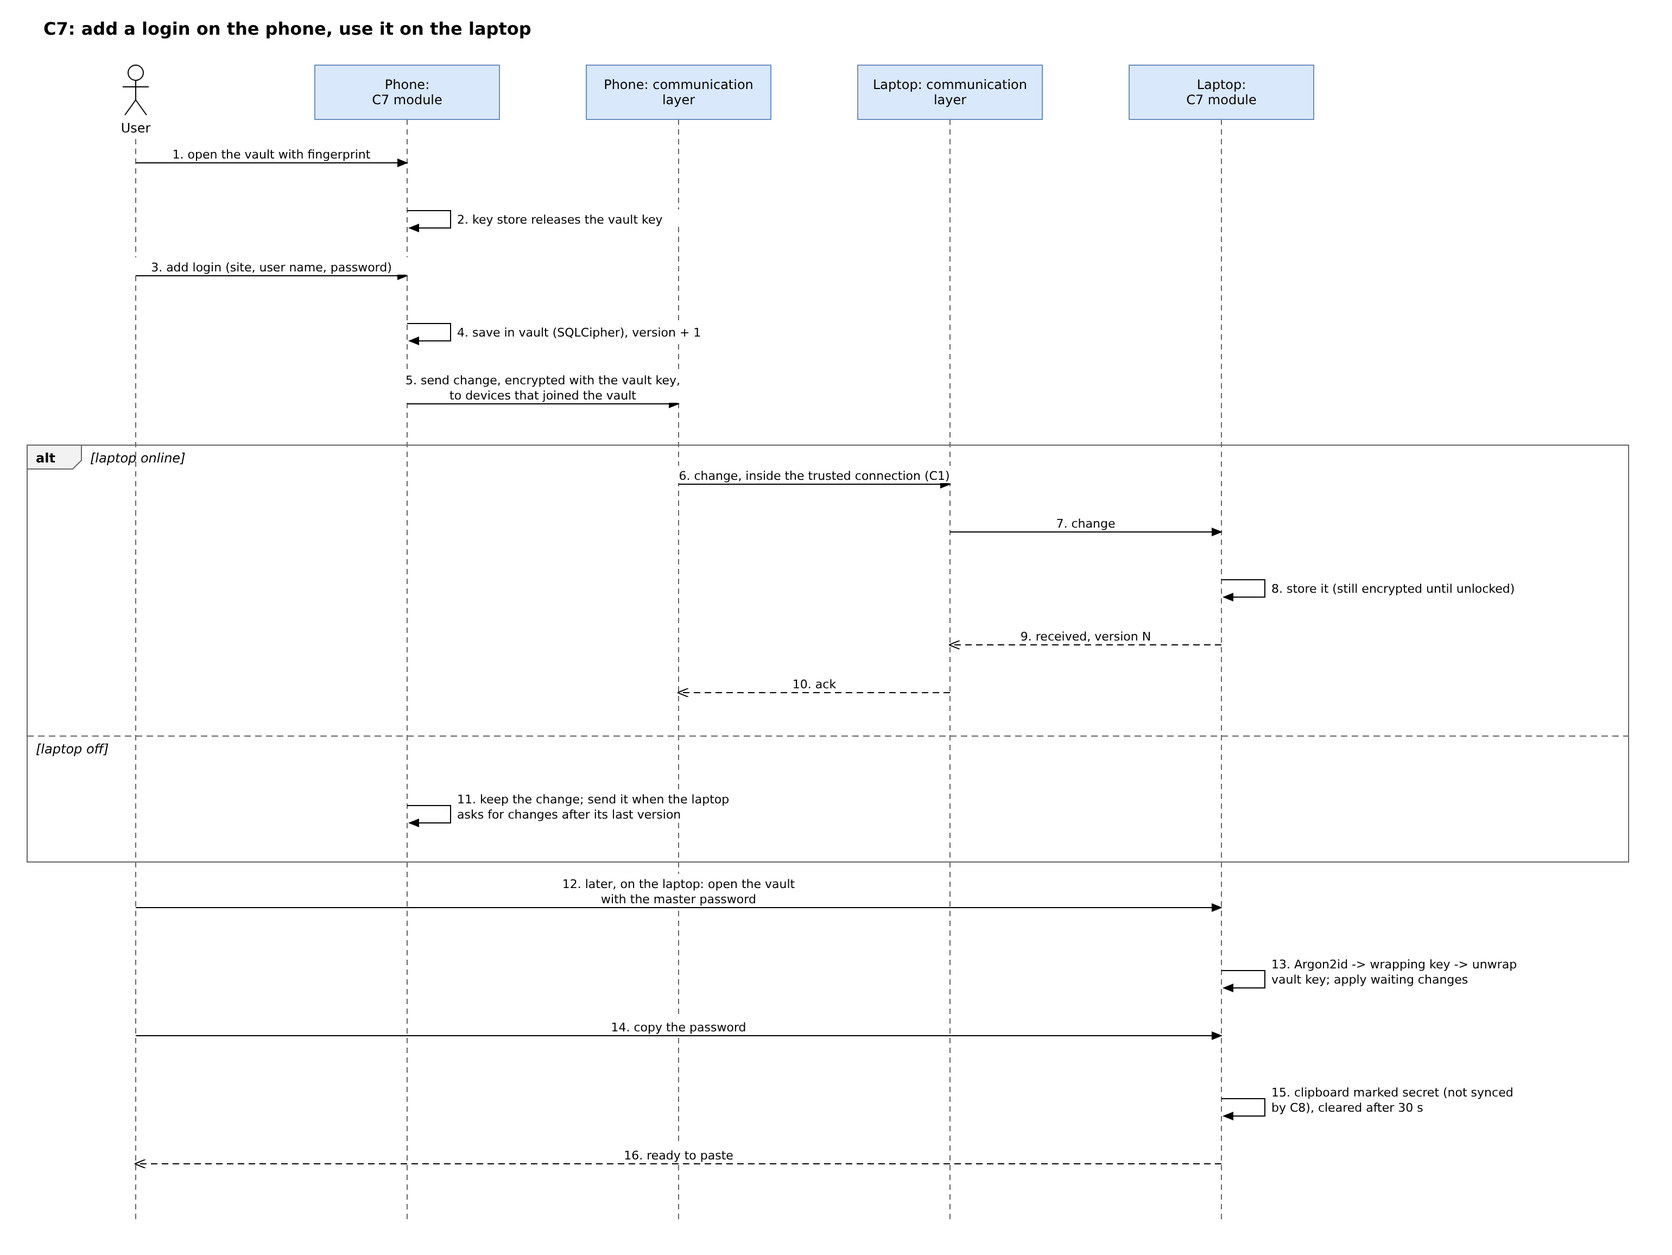
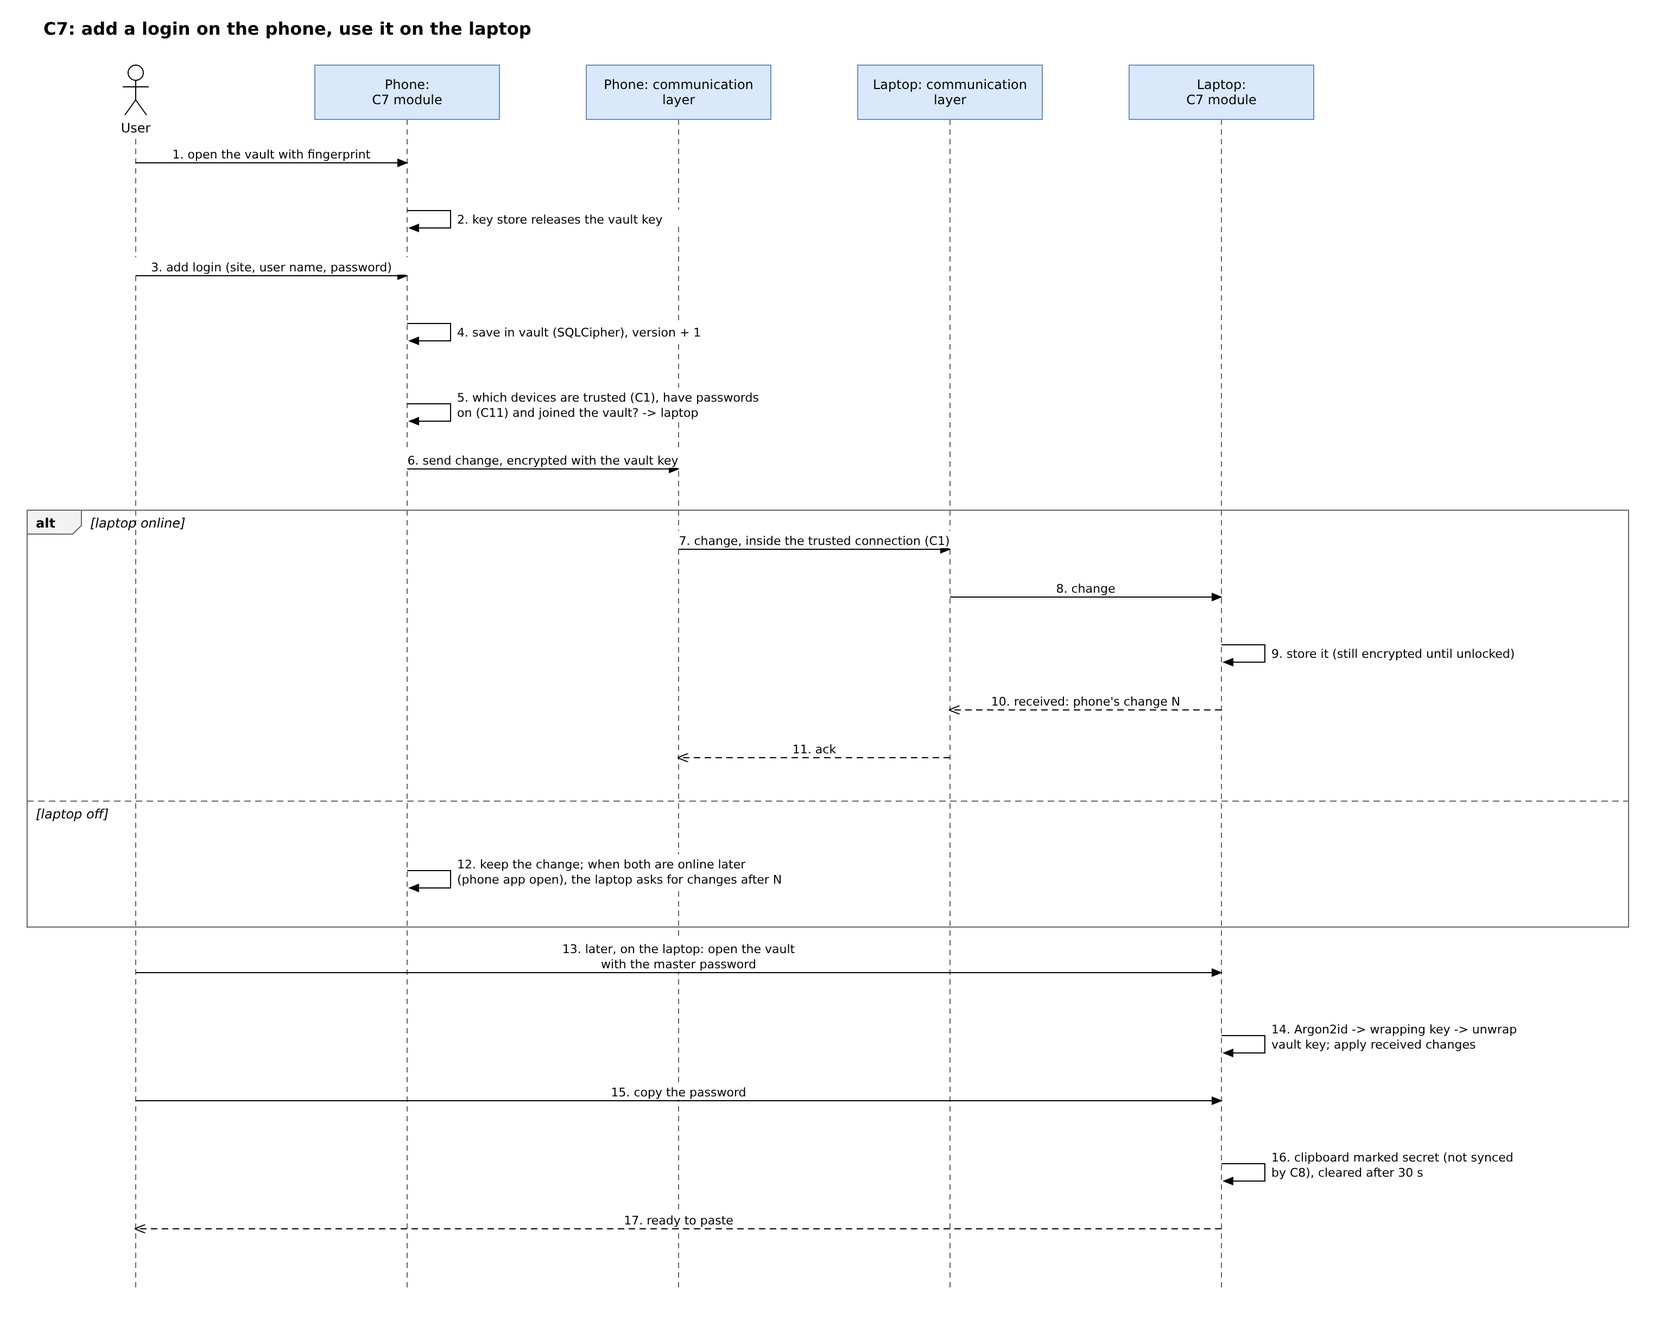
C7: fixes after review (stored keys, sync versions, clipboard per system, diagram)
Claude-Session: https://claude.ai/code/session_01BeHf3d1kUqbSvqCHyE6dbJ

diff --git a/report/C7-password-management.md b/report/C7-password-management.md
@@ -1,29 +1,29 @@
 # C7: Password management (first version)
 
-Owner: Ali. Status: first version, 8 Nov 2026. Phase 1 is design only: no code. The professor agreed that C7 stays in the report as a design. Names follow `B1-architecture-v2.md`; technology from `B6-technology-final.md`; trust from C1 v2 (draft). **[PROPOSAL]** = a design choice or number to settle in Phase 2. **[NOT CHECKED]** = not confirmed in a primary source or by a test.
+Owner: Ali. Status: first version, 8 Nov 2026. Phase 1 is design only: no code. The professor agreed that C7 stays in the report as a design. Names follow `B1-architecture-v2.md`; technology from `B6-technology-final.md`; trust from C1 v2 (draft); security rules from `C11-security-privacy.md`. **[PROPOSAL]** = a design choice or number to settle in Phase 2. **[NOT CHECKED]** = not confirmed in a primary source or by a test.
 
 ## 1. How it works in one paragraph
-Each device that the user turns the feature on for keeps the same password vault, encrypted, inside the device app. The vault is opened with one master password (or a fingerprint or face on devices that have it). Changes travel only between trusted devices on the local network, already encrypted with the vault key, so no server and no internet are involved. The user copies a password, or, on Android, iPhone/iPad and Mac, lets the system's AutoFill fill it in other apps.
+Each device that the user turns the feature on for keeps the same password vault, encrypted, inside the device app. The vault is opened with one master password (or a fingerprint or face on devices that have it). Changes travel only between trusted devices that joined the vault, on the local network, already encrypted with the vault key, so no server and no internet are involved. The user copies a password, or, on Android, iPhone/iPad and Mac, lets the system's AutoFill fill it in other apps.
 
 ## 2. What is stored, and where the accounts come from
 - **Stored [PROPOSAL]:** logins (name, website or app, user name, password, note) and secure notes. Not in v1: payment cards, passkeys, one-time codes.
 - **Typed in** by the user, with a password generator.
-- **Imported from a file (recommended):** a CSV file exported by a browser or another password manager. Chrome exports and imports passwords as `.csv` with the columns `url`, `username`, `password`, and warns that anyone who uses the device can open such a file [6]. So after import the app offers to delete the file.
-- **Read from browsers directly: not recommended.** On Windows, Chrome 127 started "App-Bound Encryption", which ties stored secrets to Chrome itself, so decryption by another app fails; it started with cookies and Google plans it for passwords [7]. On phones the browsers' stores are inside their own app sandbox [NOT CHECKED]. Reading them would also need code per browser and per system.
+- **Imported from a file (recommended):** a CSV file exported by a browser or another password manager. Chrome imports `.csv` files whose first line has `url`, `username`, `password`, and warns that anyone who uses the device can open such a file [6]. So after import the app offers to delete the file.
+- **Read from browsers directly: not recommended.** On Windows, Chrome 127 started "App-Bound Encryption", which ties stored secrets to Chrome so that decryption by another app fails; it covers cookies first, and Google says it may extend it to passwords [7]. Chrome on macOS, Firefox, Safari (iCloud Keychain) and the phone browsers keep their passwords in their own protected stores; reading them is [NOT CHECKED] and would need code per browser and per system.
 
 ## 3. The vault
 - **File:** a second SQLite file encrypted with SQLCipher (B6 choice 5).
-- **Keys [PROPOSAL]:** at first setup the app creates a random 256-bit **vault key** and gives it to SQLCipher as a raw key, which makes SQLCipher skip its own key derivation [3]. The master password is turned into a **wrapping key** with **Argon2id, 64 MiB of memory, 3 passes, 1 thread, 16-byte random salt**. This is above OWASP's minimum (19 MiB, 2 passes, 1 thread [1]); Bitwarden's default is 32 MiB, 6 passes, 4 threads [2]. The wrapping key encrypts the vault key (AES-256-GCM). Each device stores only the **wrapped** vault key, the salt and the settings. The master password, the wrapping key and the plain vault key are never stored, as B6 requires. Changing the master password only re-wraps the vault key; the vault is not re-encrypted. Argon2id time on our phones (target: under 1 s) and the Dart package for it: [NOT CHECKED].
+- **Keys [PROPOSAL; this refines B6 choice 5, which said "key from the master password, never stored"]:** at first setup the app creates a random 256-bit **vault key** and gives it to SQLCipher as a raw key, which makes SQLCipher skip its own key derivation [3]. The master password is turned into a **wrapping key** with **Argon2id, 64 MiB of memory, 3 passes, 1 thread, 16-byte random salt**: above OWASP's minimum (19 MiB, 2 passes, 1 thread [1]), and not above 64 MiB because Bitwarden warns about more on iOS [2] (Bitwarden's default is 32 MiB, 6 passes, 4 threads [2]). The wrapping key encrypts the vault key (AES-256-GCM). Each device stores the **wrapped** vault key, the salt and the settings. The master password and the wrapping key are never stored; the plain vault key is never stored **except** in the optional biometric copy below, inside the system key store. Changing the master password only re-wraps the vault key. Argon2id time on our phones (target: under 1 s) and the Dart package for it: [NOT CHECKED].
 - **Locks [PROPOSAL]:** when the app closes, when the screen locks, after 5 minutes without use (desktop setting up to 30), and by a "Lock" button. Locking removes the vault key from memory; whether Dart really clears memory is [NOT CHECKED].
-- **Fingerprint or face (optional, per device):** the vault key is also kept in the system key store behind biometrics. On iPhone/iPad/Mac, a Keychain item with `biometryCurrentSet`, which Apple invalidates when fingers are added or removed or Face ID is set up again [4]. On Android, a Keystore key that needs strong biometrics (strong-only is enforced from Android 11, per `flutter_secure_storage` [5]). Windows Hello and Linux: master password only in v1 [NOT CHECKED]. The master password is asked again after a restart and every 14 days [PROPOSAL].
+- **Fingerprint or face (optional, per device):** a copy of the vault key is kept in the system key store behind biometrics. On iPhone/iPad/Mac, a Keychain item with `biometryCurrentSet`, which Apple invalidates when fingers are added or removed or Face ID is set up again [4]. On Android, a Keystore key that needs strong biometrics (strong-only enforced from Android 11 [11]). Windows Hello and Linux: master password only in v1 [NOT CHECKED]. The master password is asked again after a restart and every 14 days [PROPOSAL].
 - **Forgotten master password:** there is no server and no reset. (1) If any device still opens the vault with a fingerprint or face, the user sets a new master password there, and the newly wrapped key goes to the other devices. (2) At setup the app shows a **recovery code** (random, 128 bits) to print or write down; it also wraps the vault key [PROPOSAL]. (3) Without either, the vault is lost. The setup screen says this plainly.
 
 ## 4. Syncing between devices
-- **Off until the user turns it on** on each device (B1 rule). Only devices that are trusted (C1) **and** where the user has typed the master password once take part: a new device receives the wrapped vault key and the salt from a trusted device and opens it with the master password. A device that is trusted for other features but never joined the vault can read nothing.
-- **What travels:** each changed entry, encrypted with the vault key (AES-256-GCM), inside the trusted TLS connection [PROPOSAL]. So a device that only relays (C3's "passing copies on") cannot read it, and the vault never leaves a device unencrypted (B1 decision 11).
-- **Each entry carries** a random id, a version number, the time and device of the last change; a deleted entry becomes a tombstone kept 90 days [PROPOSAL].
-- **One rule for two edits of the same entry [PROPOSAL]:** if both devices changed the same entry since they last synced, the later edit (by its time) becomes the current entry and the other is kept in the entry's **history**, with a notice "Edited on two devices; previous version saved". Nothing is lost. (Clocks that differ between devices can pick the "wrong" winner, but the other version is still in the history.)
-- **A device that was switched off:** it asks for the changes after the last version it has (as C3 does for file lists). Phones and tablets sync only while the app is open (B6 choice 6). A device that is locked stores received changes still encrypted and applies them when the user unlocks.
+- **Off until the user turns it on** on each device (B1 rule). A device takes part only if it is trusted (C1), the passwords feature is on for it (C11), **and** the user typed the master password there once: a new device receives the wrapped vault key and the salt from a trusted device and opens it with the master password.
+- **What travels [PROPOSAL]:** each changed entry, encrypted with the vault key (AES-256-GCM, with the entry id and its version bound to the ciphertext so an old copy cannot be replayed as new), inside the trusted TLS connection. So the vault never leaves a device unencrypted (B1 decision 11).
+- **Versions [PROPOSAL]:** every device numbers its own vault changes (1, 2, 3...), like C3's change numbers but one sequence per **writing** device, because every device that joined may edit. Each entry keeps the latest number it has seen from each device. A device that was switched off asks each other device for "changes after the numbers I have". A deleted entry becomes a tombstone kept 90 days; a device away longer than that receives the whole vault again, so deleted entries cannot come back.
+- **One rule for two edits of the same entry [PROPOSAL]:** if two changes to an entry do not know about each other (their numbers show neither came after the other), the later edit (by its time) becomes the current entry and the other is kept in the entry's **history**, with a notice "Edited on two devices; previous version saved". Nothing is lost; clocks that differ can pick the "wrong" winner, but the other version stays in the history.
+- **Phones and tablets** sync only while the app is open (B6 choice 6). A device whose vault is locked stores received changes still encrypted and applies them at unlock.
 
 ## 5. Using passwords in other apps and sites (autofill)
 
@@ -31,25 +31,25 @@ Each device that the user turns the feature on for keeps the same password vault
 |---|---|---|
 | Android 8+ | Be an **autofill service**: the user picks it in system settings, then it fills logins in other apps; Chrome uses it only when the user chooses "Autofill using another service" in Chrome [8] | Autofill service (native plugin) |
 | iPhone/iPad 12+, macOS 11+ | A **Credential Provider extension** for AutoFill (passwords, passkeys, one-time codes); needs Apple's AutoFill entitlement [9] | Extension, native code [NOT CHECKED with Flutter] |
-| Windows | Since Nov 2025, third-party managers can plug in for **passkeys**; for passwords in any app nothing like this was found [10] [NOT CHECKED] | Copy and auto-clear |
-| Linux | No system autofill API found [NOT CHECKED] | Copy and auto-clear |
+| Windows | Since Nov 2025, third-party managers can plug in for **passkeys**; for passwords in any app nothing like this was found [10] [NOT CHECKED] | Copy |
+| Linux | No system autofill API found [NOT CHECKED] | Copy |
 
-**Copy:** the copied password is marked secret with the formats C8 lists, so C8 never syncs it, and the app clears the clipboard after 30 s [PROPOSAL]. A browser extension is not in v1.
+**Copy:** the copied password is marked secret with the formats C8 lists, so C8 never syncs it [5]. On iPhone/iPad it is set `localOnly` (not sent to other Apple devices through Handoff) with an `expirationDate` 30 s later [12]. On desktops the app clears the clipboard after 30 s while it runs; on Android the app cannot clear it once in the background, so it relies on the secret mark (Android 13+ also clears the clipboard by itself, C8) [PROPOSAL]. Universal Clipboard from a Mac: [NOT CHECKED]. A browser extension is not in v1.
 
 ## 6. Risks and protection
 
 | Risk | Protection | What remains |
 |---|---|---|
-| Lost device, locked | Vault encrypted; vault key stored only wrapped (Argon2id); remove the device (C1, C11) | Offline guessing of a weak master password |
+| Lost device, locked | Vault encrypted; vault key stored only wrapped (Argon2id) or behind biometrics; remove the device and change the vault key (C11 section 5) | Offline guessing of a weak master password on the lost copy |
 | Stolen device, unlocked | Auto-lock after 5 min and on screen lock; showing or copying a password asks for fingerprint/face again [PROPOSAL] | What is on screen before the lock |
 | Trusted device that misbehaves | Only devices that joined the vault can read; every change keeps a history; tombstones are visible | A device that joined can read every password; remove it and change important passwords |
-| Malware on a device | Vault locked most of the time; key store with biometrics on phones | Malware running as the user can read memory while the vault is open, or record the master password; on Windows the key store only protects from other users (B6 point 6) |
+| Malware on a device | Vault locked most of the time; key store with biometrics on phones | Malware running as the user can read memory while the vault is open, or record the master password; on Windows the key store protects from other users, and by our inference not from other programs of the same user (B6 point 6) |
 | Copied vault file | Useless without the master password or recovery code | Offline guessing (slowed by Argon2id) |
 | Weak master password | At least 12 characters and a strength meter [PROPOSAL]; Argon2id | A guessable password stays guessable |
-| Password leak through the clipboard | Secret mark, cleared after 30 s, never synced (C8) | Apps on Windows/Linux that read the clipboard before it is cleared |
+| Password leak through the clipboard | Secret mark, never synced (C8); auto-clear or expiry (section 5) | Apps that read the clipboard before it is cleared, mainly on Windows and Linux |
 
 ## 7. Compared with Bitwarden (A5)
-Like Bitwarden, the vault is encrypted on the device with a key that comes from the master password (Bitwarden: Argon2id or PBKDF2 [2]), and the master password is never sent. Unlike Bitwarden (A5 [5]), there is **no server**: devices sync directly on the local network, so nothing goes to a cloud. **What we give up:** no web vault and no browser extension, no account recovery or emergency access by a server, no sharing with other people, and a new device can join only while a trusted device that has the vault is online.
+Like Bitwarden, the vault is encrypted on the device with a key that comes from the master password (Bitwarden: Argon2id or PBKDF2 [2]). Unlike Bitwarden (A5 [5]), there is **no server**: devices sync directly on the local network, so nothing goes to a cloud. **What we give up:** no web vault and no browser extension, no account recovery or emergency access by a server, no sharing with other people, and a new device can join only while a trusted device that has the vault is online.
 
 ## 8. Step-by-step: add a login on the phone, use it on the laptop
 Editable source: `diagrams/C7-vault-sequence.drawio`; image: `diagrams/C7-vault-sequence.png`.
@@ -57,30 +57,32 @@ Editable source: `diagrams/C7-vault-sequence.drawio`; image: `diagrams/C7-vault-
 ![C7 sequence diagram: add a login on the phone, use it on the laptop](../diagrams/C7-vault-sequence.png)
 
 ## 9. Requirements (for A8 and A9)
-- FR-C7-1 The app must keep the vault in a separate SQLCipher file whose key is random and stored only wrapped by a key derived from the master password with Argon2id.
-- FR-C7-2 The app must never store or send the master password, the wrapping key or the plain vault key.
+- FR-C7-1 The app must keep the vault in a separate SQLCipher file whose key is random and stored only wrapped by a key derived from the master password with Argon2id, or behind biometrics in the system key store.
+- FR-C7-2 The app must never store or send the master password or the wrapping key, and never send the plain vault key.
 - FR-C7-3 The app must lock the vault on app close, on screen lock and after 5 minutes without use.
 - FR-C7-4 The app must allow fingerprint or face unlock only through the system key store, and ask for the master password after a restart.
 - FR-C7-5 The app must import logins from a CSV file and offer to delete the file afterwards.
-- FR-C7-6 The app must sync the vault only with trusted devices that joined the vault, and only after the user turned the feature on.
+- FR-C7-6 The app must sync the vault only with trusted devices that joined the vault and have the feature switched on.
 - FR-C7-7 The app must send vault changes only encrypted with the vault key, inside the trusted connection.
 - FR-C7-8 The app must keep both versions when the same entry was changed on two devices.
-- FR-C7-9 The app must mark copied passwords as secret, never sync them through C8, and clear the clipboard after 30 seconds.
+- FR-C7-9 The app must mark copied passwords as secret, never sync them through C8, and clear them or let them expire after 30 seconds where the system allows.
 - FR-C7-10 The app must show the recovery code once at setup and say that a forgotten master password cannot be reset.
-- NFR-C7-1 Opening the vault with the master password must take at most about 1 second on the minimum phone [to test].
-- NFR-C7-2 No vault data may leave the local network.
+- FR-C7-11 The app must open the vault with the master password in about 1 second or less on the minimum phone [to test].
+- FR-C7-12 The app must not send vault data outside the local network.
 
 ## Open points and who settles them
-Removing a device: change the vault key or not (Ali, C11); the per-feature permission for passwords (C11); the vault screens (D1, Mahmoud). **Phase 2 tests:** Argon2id time on phones and the Dart package; memory clearing in Dart; AutoFill extensions with Flutter; Windows Hello; whether phones' browser stores can be read.
+The vault screens (D1, Mahmoud). Removing a device and changing the vault key: settled in C11 section 5. **Phase 2 tests:** Argon2id time on phones and the Dart package; memory clearing in Dart; AutoFill extensions with Flutter; Windows Hello; reading browser stores; Universal Clipboard.
 
-## Sources (opened 8 Nov 2026)
+## Sources (opened 8 Nov 2026; source 11 on 21 Oct 2026)
 1. OWASP, Password Storage Cheat Sheet (Argon2id minimum configurations): https://cheatsheetseries.owasp.org/cheatsheets/Password_Storage_Cheat_Sheet.html
-2. Bitwarden, KDF algorithms (PBKDF2 600,000; Argon2id 32 MiB, 6 iterations, 4 threads): https://bitwarden.com/help/kdf-algorithms/
+2. Bitwarden, KDF algorithms (PBKDF2 600,000; Argon2id 32 MiB, 6 iterations, 4 threads; warning above 64 MiB on iOS): https://bitwarden.com/help/kdf-algorithms/
 3. Zetetic, "Using random values as SQLCipher keys" (raw key bypasses the KDF): https://www.zetetic.net/blog/2019/06/07/technical-guidance-using-random-values-as-sqlcipher-keys/
 4. Apple, `SecAccessControlCreateFlags.biometryCurrentSet`: https://developer.apple.com/documentation/security/secaccesscontrolcreateflags/biometrycurrentset
-5. Team files: `B6-technology-final.md` (choices 5 and 6, point 6) and `B6-technology-v0.md` source 29 (`flutter_secure_storage`); `C8-clipboard-sync.md` section 4; `C3-file-indexing.md` section 2; `research/A5-existing-systems.md` section 4 (Bitwarden).
+5. Team files: `B6-technology-final.md` (choices 5 and 6, point 6); `C8-clipboard-sync.md` section 4 (branch `c8-final`); `C3-file-indexing.md` section 2; `research/A5-existing-systems.md` section 4 (Bitwarden); `C11-security-privacy.md`.
 6. Google, "Import or export passwords with Chrome": https://support.google.com/chrome/answer/13068232
 7. Google Security Blog, "Improving the security of Chrome cookies on Windows" (30 Jul 2024): https://security.googleblog.com/2024/07/improving-security-of-chrome-cookies-on.html
 8. Android, "Build autofill services": https://developer.android.com/identity/autofill/autofill-services
 9. Apple, `ASCredentialProviderViewController`: https://developer.apple.com/documentation/authenticationservices/ascredentialproviderviewcontroller
 10. CyberInsider, "Windows 11 integrates native support for Bitwarden and 1Password" (12 Nov 2025): https://cyberinsider.com/windows-11-integrates-native-support-for-bitwarden-and-1password/
+11. `flutter_secure_storage` package page (biometrics: strong-only fully enforced on API 30+): https://pub.dev/packages/flutter_secure_storage
+12. Apple, `UIPasteboard.OptionsKey` (`localOnly`, `expirationDate`, `concealed`): https://developer.apple.com/documentation/uikit/uipasteboard/optionskey
